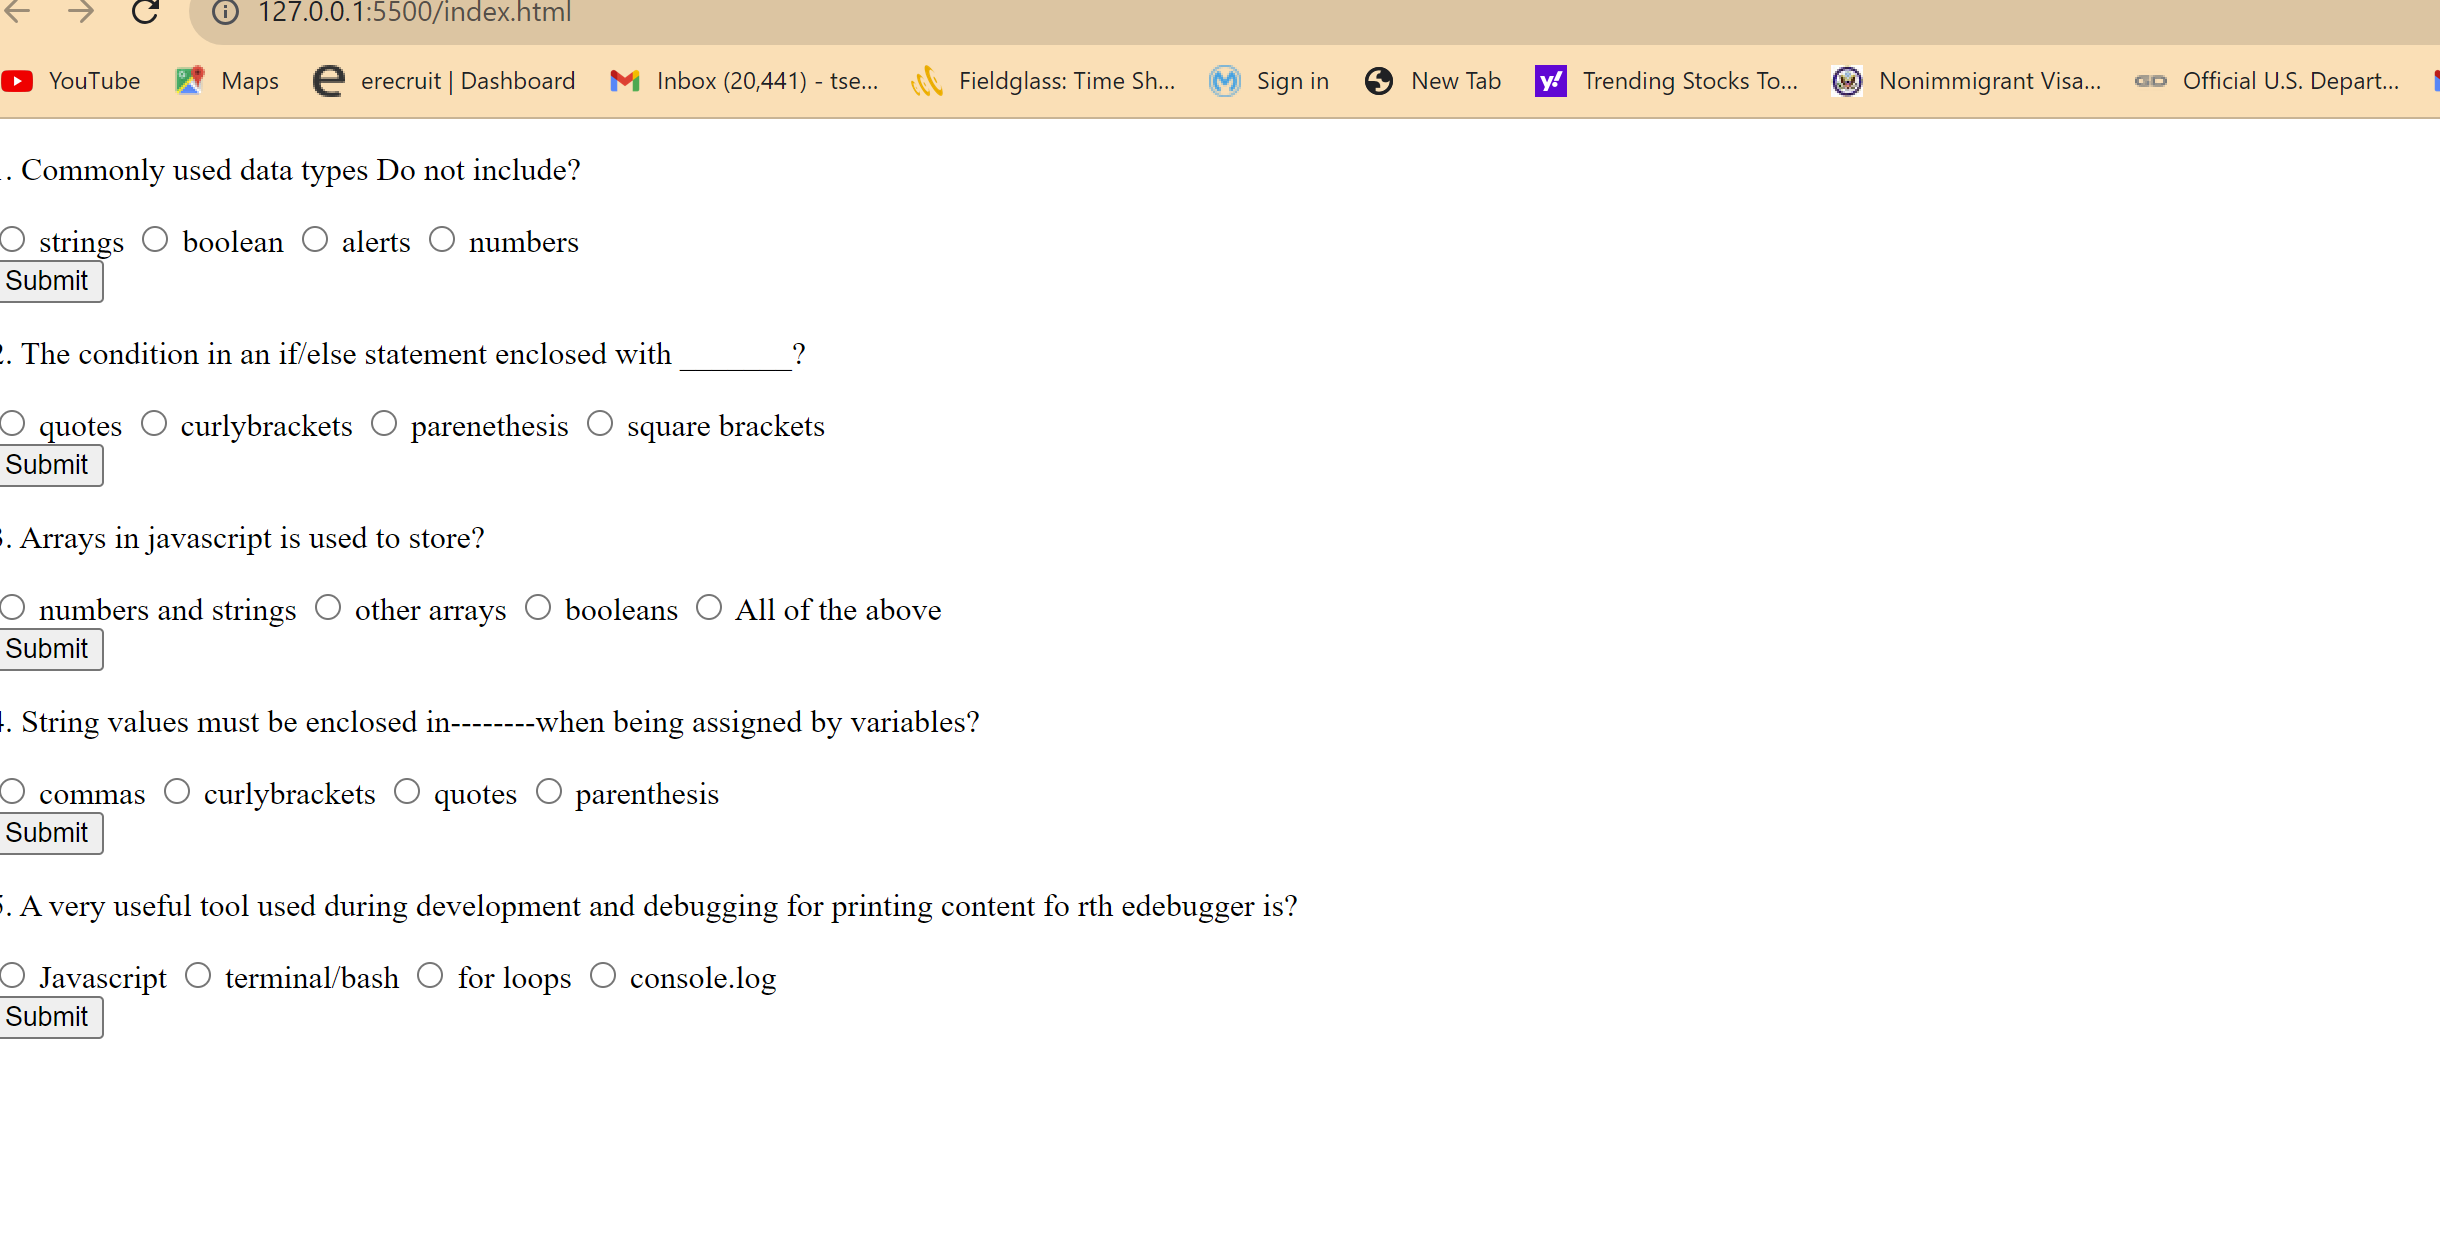
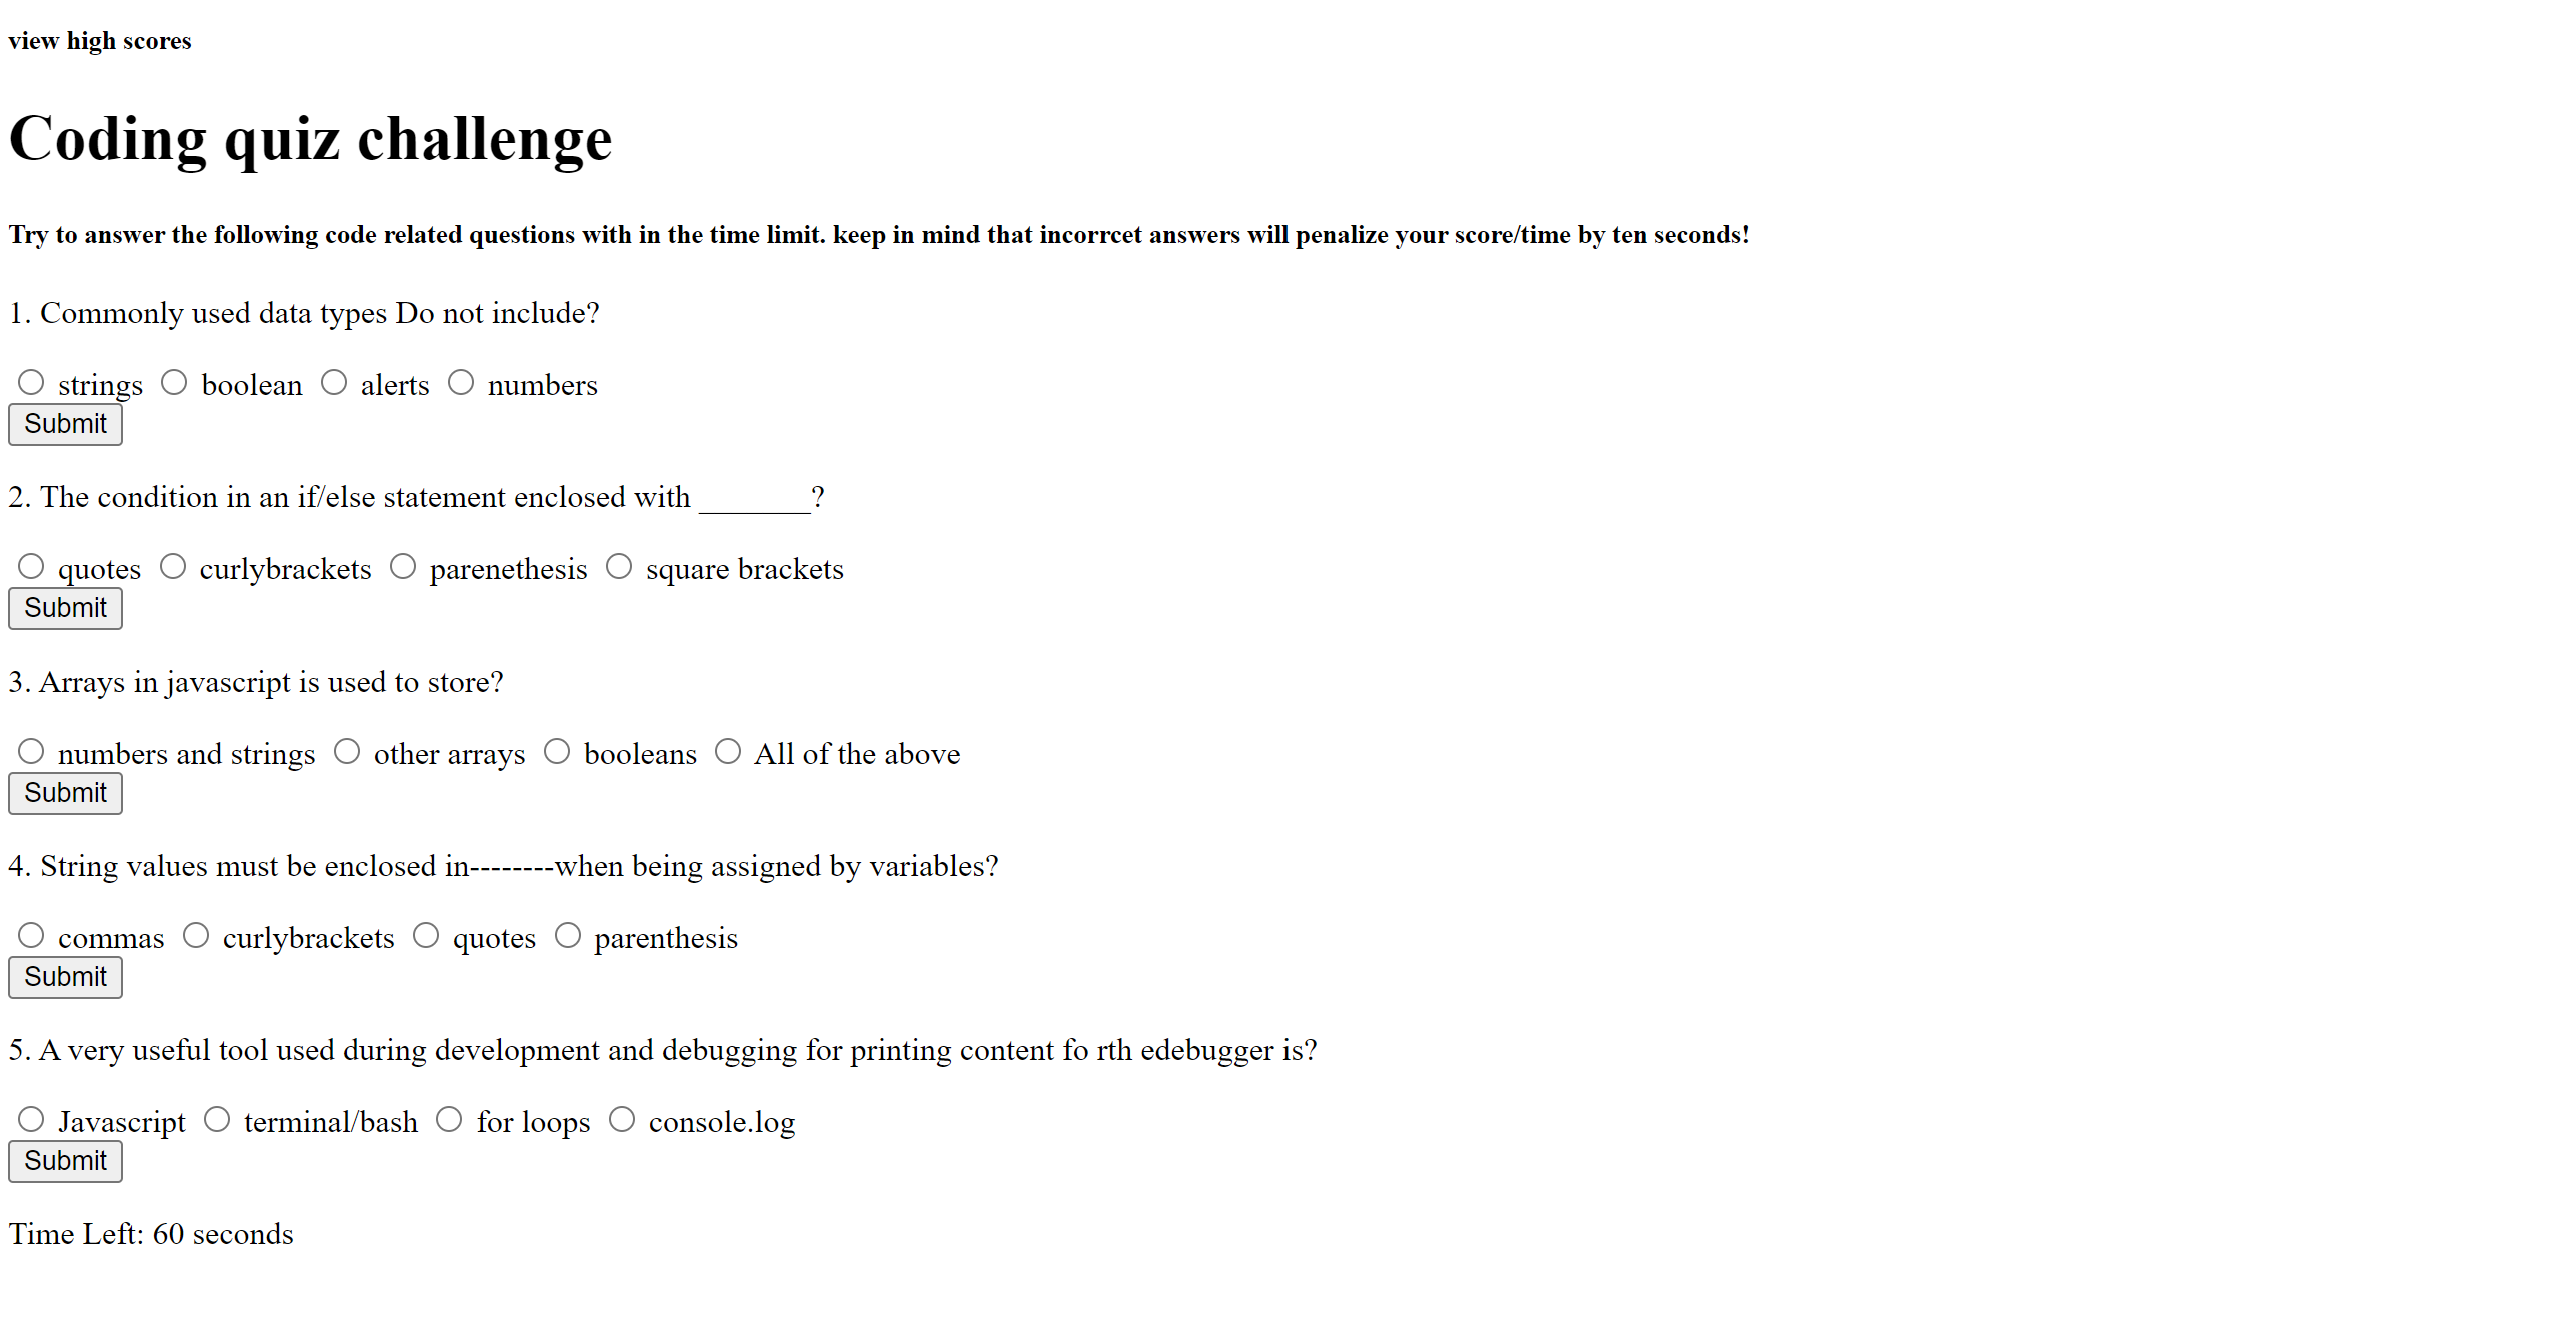
update the screenshot in Readme

diff --git a/README.md b/README.md
@@ -12,4 +12,4 @@ THEN the game is over
 WHEN the game is over
 THEN I can save my initials and score
 
-![Alt text](image-1.png)
+![Alt text](image.png)
